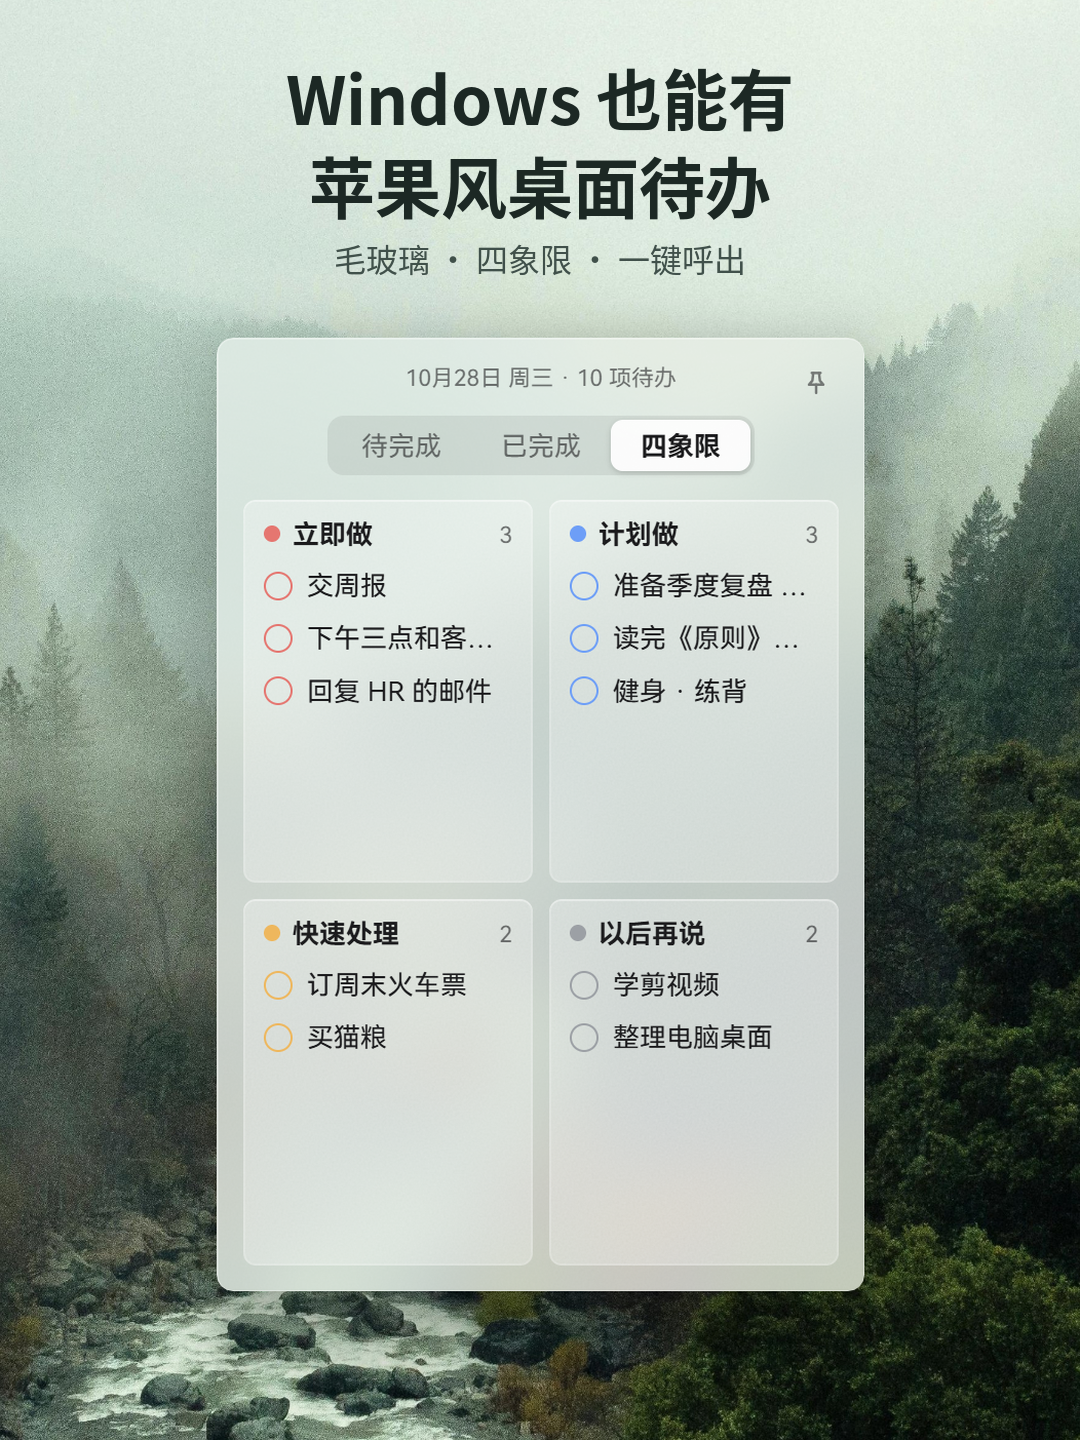
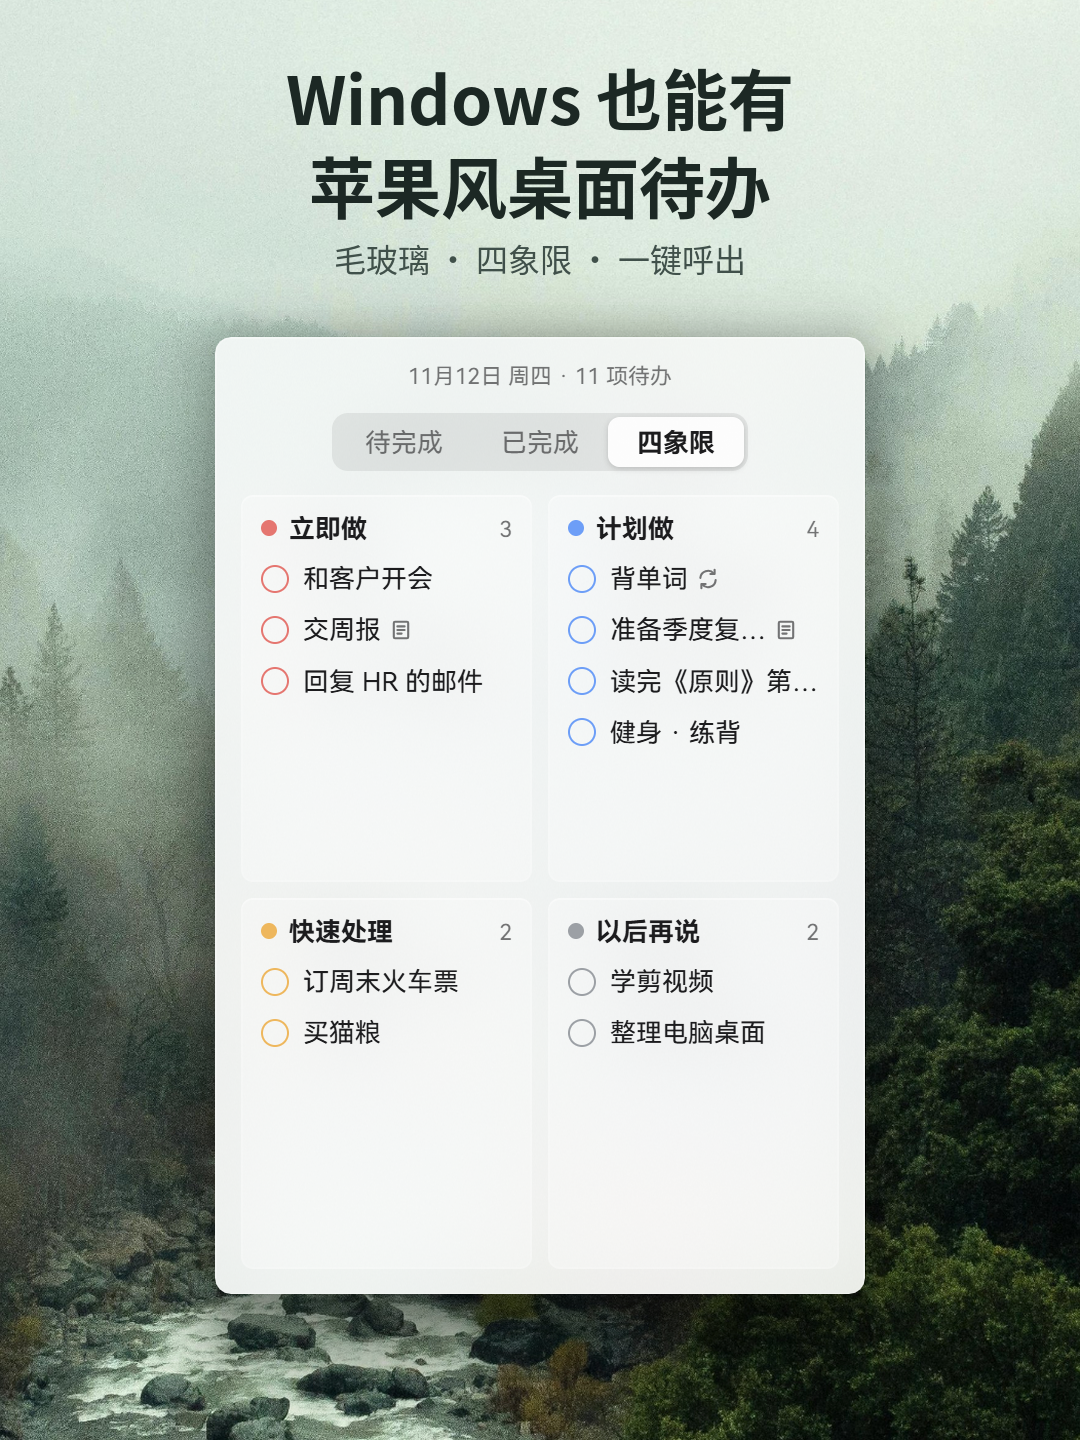
README：新增循环任务、任务备注、手动排序的说明，更新三张截图

Changed region(s): [[0.1833, 0.25, 0.825, 0.9688]]

diff --git a/README.md b/README.md
@@ -21,7 +21,9 @@
 - **贴边吸附**：拖到屏幕边缘附近自动贴紧
 - **设置页**：背景不透明度（40%～100%）、呼出快捷键、收起方式、开机自启、自动检查更新
 - **三个视图**：待完成 / 已完成 / 四象限（立即做、计划做、快速处理、以后再说），`Ctrl+1 / 2 / 3` 切换
-- **四象限拖动**：拖动任务就能换象限；新建时末尾写 `!1` ~ `!4` 直接指定象限
+- **四象限拖动**：拖动任务就能换象限，同一象限内拖动可以调整顺序；新建时末尾写 `!1` ~ `!4` 直接指定象限
+- **循环任务**：右键「循环…」，可选每天 / 工作日（周一至周五，不跟随法定节假日和调休）/ 每周（可多选）/ 每月；能设结束日期、跳过一次或停止
+- **任务备注**：右键「添加备注」，备注显示在任务下方；四象限里把鼠标停在备注图标上查看
 - **时间识别与提醒**：标题里写"明天下午3点""周三晚""30分钟后"会自动识别成提醒时间；到点弹出系统通知，可以直接点"完成 / 30 分钟后 / 明天"
 - **过期标红**：过了时间还没完成的任务标红，托盘图标出现红点
 - **今日焦点**：每天最多选 3 项，排在列表最上面
@@ -34,6 +36,7 @@
 ## 隐藏用法
 
 - **打字就能设提醒**：新建任务时直接写"明天下午3点交报告""周五开会"，会自动识别成提醒时间（输入框下方出现 ⏰ 标签，点它能改，✕ 取消）。只写日期、没写钟点的，默认上午 9:00 提醒。
+- **看长标题的全名**：标题太长被截断时，鼠标停一下就会浮出全名。
 - **改任务名**：双击任务文字，或选中后按 `F2`，或右键 →「重命名」。`Enter` 保存，`Esc` 取消，点别处也会保存。
 - **草稿不会丢**：新建任务时离开输入框，内容会保留成草稿，按回车才保存成任务。
 - **贴边隐藏要先开启**：默认是"桌面常驻"。想让窗口缩到屏幕边上，先点右上角齿轮 → 收起方式 → 选「贴边隐藏」，再把窗口拖到屏幕边缘。
@@ -48,6 +51,8 @@
 3. 系统要求：Windows 10 / 11（Windows 11 一般自带所需组件；如果 Windows 10 上双击没反应，请安装微软的 [WebView2 运行时](https://developer.microsoft.com/microsoft-edge/webview2/)）
 
 关闭窗口只是藏到托盘；真正退出请右键托盘图标 →「退出」。
+
+**从旧版升级**：先右键托盘图标 →「退出」旧版，再打开新版。第一次打开会自动升级任务数据，并留一份升级前的备份。升级后请不要再打开旧版本，否则循环、备注和排序会丢失。
 
 ## 打开时被 Windows 拦截怎么办
 
